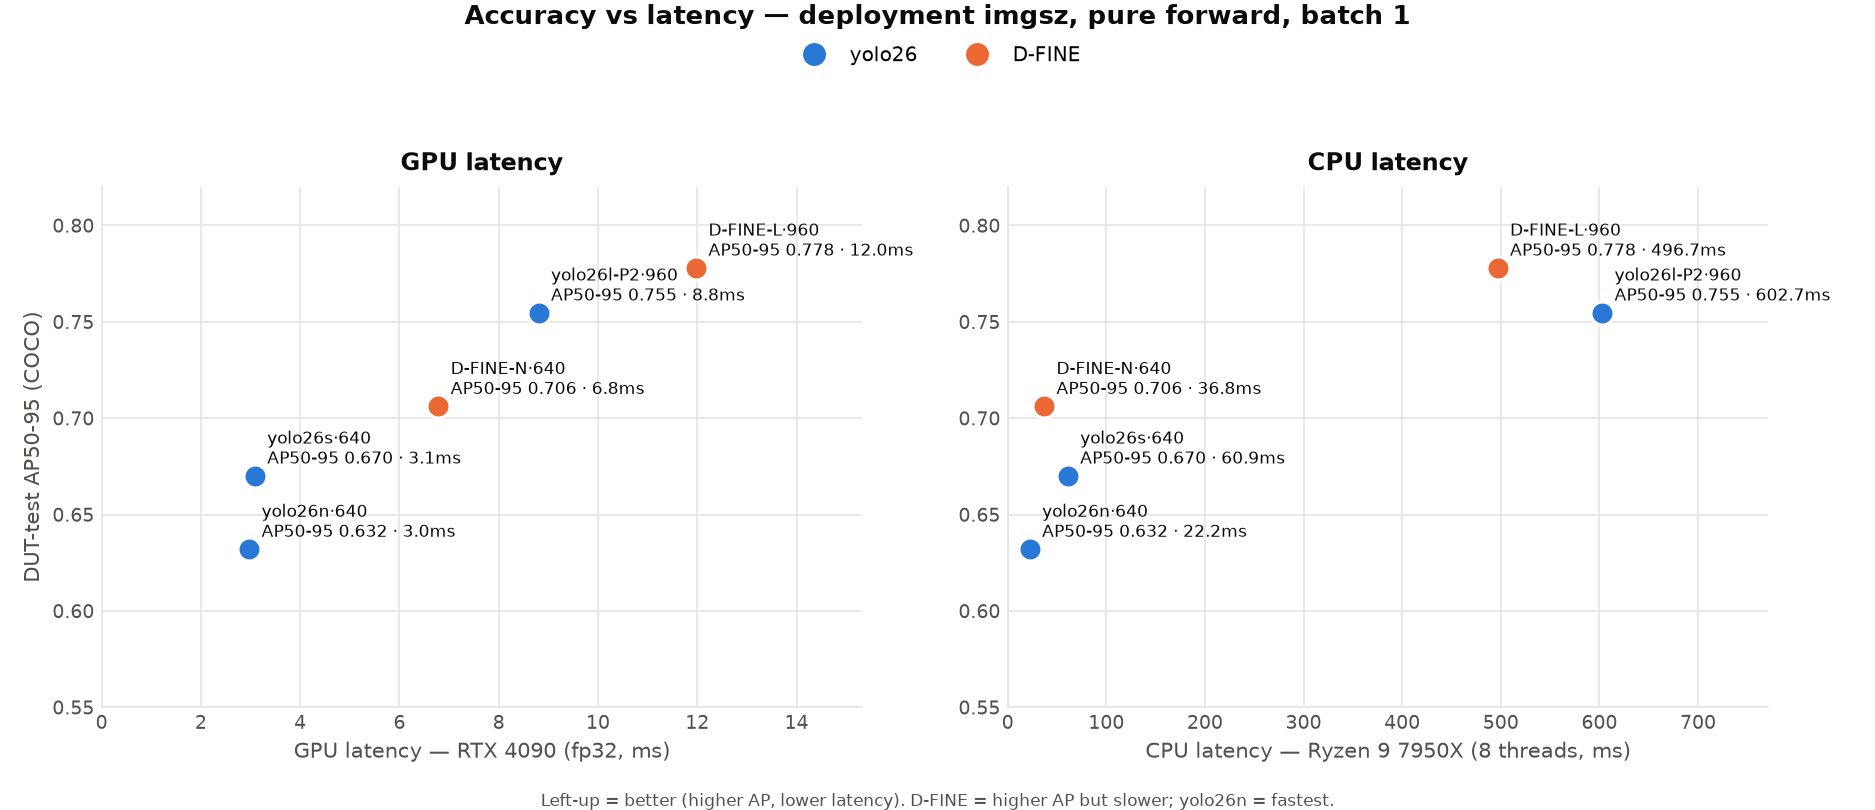
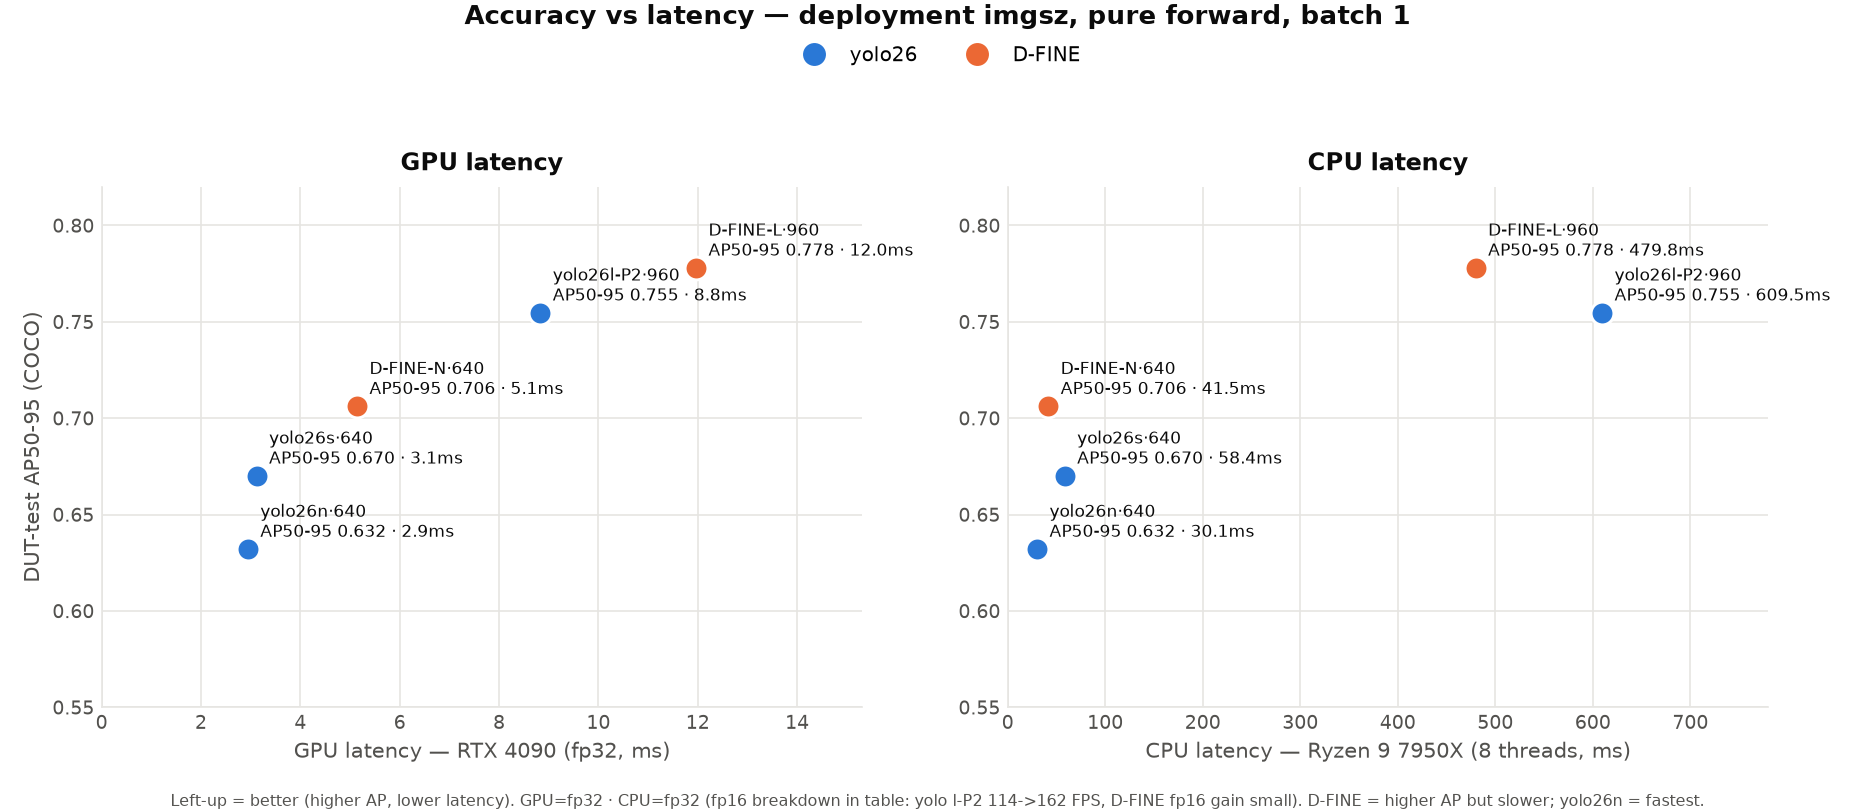
fix: D-FINE fp16 실측(autocast) + fp16/fp32 구분 명확화 + 벤치 재현성
- D-FINE fp16을 torch.autocast(AMP)로 측정(이전 .half() dtype 에러 대응) — grid_sample fp32 유지+
  캐스팅 오버헤드로 fp32보다 느림(N·L 모두) 확인. 실 fp16 가속은 TensorRT 엔진(클라우드) 필요.
- bench_unified_latency.py: 모델별 subprocess 격리(D-FINE config bleed 버그 수정)로 한 명령 재현.
  yolo fp16=half·dfine fp16=autocast, GPU fp32/fp16 컬럼 분리.
- 재현 측정 반영: D-FINE-N GPU 195 FPS(효율 우수), yolo26l-P2 fp16 113→163 FPS. README 통일표·DETR
  스펙표·AP/latency 플롯·트레이드오프 수치 전부 재현값으로 정합화.

Claude-Session: https://claude.ai/code/session_01UBrdSSoAhms3ZbJMFAXSg6

diff --git a/scripts/bench_unified_latency.py b/scripts/bench_unified_latency.py
@@ -6,121 +6,154 @@
 - yolo: ultralytics YOLO(w).model.fuse() forward.
 - dfine: dfine_eval.load_model() 의 deploy 모델 forward(postprocessor 제외 = yolo forward와 동급).
 
-산출: reports/unified_latency.json (+ 콘솔 표).
-usage: python scripts/bench_unified_latency.py
+precision:
+- GPU fp32: 기본.
+- GPU fp16: yolo = 전체 half(.half()); dfine = torch.autocast(AMP) — grid_sample은 fp32 유지되어
+  이득 작음(실 fp16 가속은 TensorRT 엔진). 계열별 fp16 배포 형태와 일치.
+- CPU: fp32만(ORT fp16 native 커널 없음).
+
+⚠ D-FINE 모델을 한 프로세스에서 2개 로드하면 D-FINE config 레지스트리 상태가 bleed되어
+   두 번째 로드가 잘못된 차원으로 빌드됨 → **모델별 subprocess 격리**로 실행(기본 동작).
+
+산출: reports/unified_latency.json. usage: python scripts/bench_unified_latency.py
+       (내부: python scripts/bench_unified_latency.py --only <key>)
 """
+import argparse
 import json
+import platform
 import statistics
+import subprocess
 import sys
 import time
 from pathlib import Path
-
-import torch
-
-sys.path.insert(0, str(Path(__file__).resolve().parent))
 
 # (key, 표시명, family, imgsz, weights, [config])
 MODELS = [
     ("yolo26n_m300", "yolo26n (merged)", "yolo", 640,
      "weights/yolo26/yolo26n_drone_640_mergedataset_300epoch.pt", None),
-    ("yolo26s_640",  "yolo26s",          "yolo", 640,
+    ("yolo26s_640", "yolo26s", "yolo", 640,
      "weights/yolo26/yolo26s_drone_640.pt", None),
-    ("yolo26lP2",    "yolo26l-P2 (merged)", "yolo", 960,
+    ("yolo26lP2", "yolo26l-P2 (merged)", "yolo", 960,
      "weights/yolo26/yolo26l_drone_960p2_mergedataset_100epoch.pt", None),
-    ("dfine_n",      "D-FINE-N (merged)", "dfine", 640,
+    ("dfine_n", "D-FINE-N (merged)", "dfine", 640,
      "weights/d_fine/dfine_n_drone_640_mergedataset_220epoch.pth",
      "configs/dfine/custom/dfine_n640_merged.yml"),
-    ("dfine_l",      "D-FINE-L (merged)", "dfine", 960,
+    ("dfine_l", "D-FINE-L (merged)", "dfine", 960,
      "/workspace/runs/merged_dfine_l_960/best_stg2.pth",
      "configs/dfine/custom/dfine_l960_merged.yml"),
 ]
 DFINE_ROOT = "/root/D-FINE"
 
 
-def load_forward(m, device, half=False):
-    """(callable forward, input tensor) 반환."""
+def load_model_fp32(m, device):
     key, name, fam, imgsz, w, cfg = m
     if fam == "yolo":
         from ultralytics import YOLO
         net = YOLO(w).model.fuse().eval().to(device)
-        if half:
-            net = net.half()
     else:
+        sys.path.insert(0, str(Path(__file__).resolve().parent))
         from dfine_eval import load_model
-        net, _post = load_model(DFINE_ROOT, cfg, w, (imgsz, imgsz), str(device))
-        if half:
-            net = net.half()
-    x = torch.randn(1, 3, imgsz, imgsz, device=device,
-                    dtype=torch.half if half else torch.float32)
-    return net, x
+        net, _ = load_model(DFINE_ROOT, cfg, w, (imgsz, imgsz), str(device))
+    return net
 
 
-@torch.no_grad()
-def bench_gpu(net, x, warmup=20, iters=100):
-    for _ in range(warmup):
-        net(x)
-    torch.cuda.synchronize()
-    s = torch.cuda.Event(enable_timing=True)
-    e = torch.cuda.Event(enable_timing=True)
-    ts = []
-    for _ in range(iters):
-        s.record(); net(x); e.record(); torch.cuda.synchronize()
-        ts.append(s.elapsed_time(e))
+def make_x(imgsz, device, half=False):
+    import torch
+    return torch.randn(1, 3, imgsz, imgsz, device=device,
+                       dtype=torch.half if half else torch.float32)
+
+
+def _bench(net, x, warmup, iters, gpu, autocast=False):
+    import torch
+    ctx = torch.autocast("cuda", dtype=torch.float16) if autocast else _null()
+    with torch.no_grad(), ctx:
+        for _ in range(warmup):
+            net(x)
+        if gpu:
+            torch.cuda.synchronize()
+            s = torch.cuda.Event(enable_timing=True)
+            e = torch.cuda.Event(enable_timing=True)
+            ts = []
+            for _ in range(iters):
+                s.record(); net(x); e.record(); torch.cuda.synchronize()
+                ts.append(s.elapsed_time(e))
+        else:
+            ts = []
+            for _ in range(iters):
+                t0 = time.perf_counter(); net(x); ts.append((time.perf_counter() - t0) * 1000)
     return statistics.mean(ts), (statistics.stdev(ts) if len(ts) > 1 else 0.0)
 
 
-@torch.no_grad()
-def bench_cpu(net, x, warmup=3, iters=12):
-    for _ in range(warmup):
-        net(x)
-    ts = []
-    for _ in range(iters):
-        t0 = time.perf_counter(); net(x); ts.append((time.perf_counter() - t0) * 1000)
-    return statistics.mean(ts), (statistics.stdev(ts) if len(ts) > 1 else 0.0)
+class _null:
+    def __enter__(self): return self
+    def __exit__(self, *a): return False
+
+
+def bench_one(m):
+    import torch
+    key, name, fam, imgsz, w, cfg = m
+    r = {"name": name, "family": fam, "imgsz": imgsz}
+    dev = torch.device("cuda:0")
+    # GPU fp32
+    net = load_model_fp32(m, dev); x = make_x(imgsz, dev)
+    mean, std = _bench(net, x, 20, 100, gpu=True)
+    r["gpu_fp32"] = {"ms": round(mean, 3), "std": round(std, 3), "fps": round(1000/mean, 1)}
+    del net, x; torch.cuda.empty_cache()
+    # GPU fp16 — yolo=half, dfine=autocast
+    if fam == "yolo":
+        net = load_model_fp32(m, dev).half(); x = make_x(imgsz, dev, half=True)
+        mean, std = _bench(net, x, 20, 100, gpu=True)
+        r["gpu_fp16"] = {"ms": round(mean, 3), "std": round(std, 3), "fps": round(1000/mean, 1), "method": "half"}
+    else:
+        net = load_model_fp32(m, dev); x = make_x(imgsz, dev)
+        mean, std = _bench(net, x, 20, 100, gpu=True, autocast=True)
+        r["gpu_fp16"] = {"ms": round(mean, 3), "std": round(std, 3), "fps": round(1000/mean, 1), "method": "autocast"}
+    del net, x; torch.cuda.empty_cache()
+    # CPU fp32 (threads 1, 8)
+    for th in (1, 8):
+        torch.set_num_threads(th)
+        net = load_model_fp32(m, torch.device("cpu")); x = make_x(imgsz, torch.device("cpu"))
+        mean, std = _bench(net, x, 3, 12, gpu=False)
+        r[f"cpu_t{th}"] = {"ms": round(mean, 2), "std": round(std, 2), "fps": round(1000/mean, 2)}
+        del net, x
+    return r
 
 
 def main():
+    ap = argparse.ArgumentParser()
+    ap.add_argument("--only", help="단일 model_key만 측정 → JSON stdout(내부용)")
+    a = ap.parse_args()
+    import torch
     assert torch.cuda.is_available(), "CUDA 필요"
-    gpu = torch.cuda.get_device_name(0)
-    import platform
+
+    if a.only:
+        m = [x for x in MODELS if x[0] == a.only][0]
+        print("__RESULT__" + json.dumps(bench_one(m)))
+        return
+
+    # 모델별 subprocess 격리(D-FINE config bleed 방지)
     results = {}
     for m in MODELS:
-        key, name, fam, imgsz, w, cfg = m
-        r = {"name": name, "family": fam, "imgsz": imgsz}
-        # --- GPU fp32/fp16 ---
-        for half in (False, True):
-            tag = "gpu_fp16" if half else "gpu_fp32"
-            try:
-                net, x = load_forward(m, torch.device("cuda:0"), half=half)
-                mean, std = bench_gpu(net, x)
-                r[tag] = {"ms": round(mean, 3), "std": round(std, 3), "fps": round(1000/mean, 1)}
-                print(f"{name:22} {tag}: {mean:.3f}±{std:.3f} ms  {1000/mean:.1f} FPS")
-                del net, x; torch.cuda.empty_cache()
-            except Exception as ex:
-                r[tag] = {"error": str(ex)[:120]}
-                print(f"{name:22} {tag}: ERROR {str(ex)[:80]}")
-                torch.cuda.empty_cache()
-        # --- CPU fp32 (threads 1, 8) ---
-        for th in (1, 8):
-            tag = f"cpu_t{th}"
-            try:
-                torch.set_num_threads(th)
-                net, x = load_forward(m, torch.device("cpu"), half=False)
-                mean, std = bench_cpu(net, x)
-                r[tag] = {"ms": round(mean, 2), "std": round(std, 2), "fps": round(1000/mean, 2)}
-                print(f"{name:22} {tag}: {mean:.2f}±{std:.2f} ms  {1000/mean:.2f} FPS")
-                del net, x
-            except Exception as ex:
-                r[tag] = {"error": str(ex)[:120]}
-                print(f"{name:22} {tag}: ERROR {str(ex)[:80]}")
-        results[key] = r
+        key = m[0]
+        print(f"=== {m[1]} ===")
+        p = subprocess.run([sys.executable, __file__, "--only", key],
+                           capture_output=True, text=True)
+        line = [l for l in p.stdout.splitlines() if l.startswith("__RESULT__")]
+        if not line:
+            print(p.stdout[-500:], p.stderr[-500:]); continue
+        results[key] = json.loads(line[0][len("__RESULT__"):])
+        r = results[key]
+        print(f"  GPU fp32 {r['gpu_fp32']['fps']} · fp16 {r['gpu_fp16']['fps']} FPS "
+              f"| CPU t8 {r['cpu_t8']['fps']} FPS")
 
-    meta = {"gpu": gpu, "cpu": platform.processor() or "AMD Ryzen 9 7950X",
+    meta = {"gpu": torch.cuda.get_device_name(0), "cpu": platform.processor() or "AMD Ryzen 9 7950X",
             "note": "순수 forward(전·후처리 제외), batch=1, 각 모델 배포 imgsz. "
-                    "GPU=cuda.Event(warmup20/iter100), CPU=wall-clock(warmup3/iter12)."}
+                    "GPU=cuda.Event(warmup20/iter100), CPU=wall-clock(warmup3/iter12). "
+                    "yolo fp16=half · dfine fp16=autocast(grid_sample fp32)."}
     Path("reports").mkdir(exist_ok=True)
-    Path("reports/unified_latency.json").write_text(json.dumps({"meta": meta, **results}, indent=2))
-    print("\nsaved reports/unified_latency.json")
+    Path("reports/unified_latency.json").write_text(
+        json.dumps({"meta": meta, **results}, indent=2, ensure_ascii=False))
+    print("saved reports/unified_latency.json")
 
 
 if __name__ == "__main__":

diff --git a/scripts/plot_ap_latency.py b/scripts/plot_ap_latency.py
@@ -71,9 +71,10 @@ def main():
                fontsize=9.5, bbox_to_anchor=(0.5, 0.965))
     fig.suptitle("Accuracy vs latency — deployment imgsz, pure forward, batch 1",
                  fontsize=12.5, color=INK, y=0.995, fontweight="bold")
-    fig.text(0.5, 0.005, "Left-up = better (higher AP, lower latency). "
+    fig.text(0.5, 0.005, "Left-up = better (higher AP, lower latency). GPU=fp32 · CPU=fp32 "
+             "(fp16 breakdown in table: yolo l-P2 114->162 FPS, D-FINE fp16 gain small). "
              "D-FINE = higher AP but slower; yolo26n = fastest.",
-             ha="center", fontsize=8.3, color=MUTED)
+             ha="center", fontsize=7.6, color=MUTED)
     fig.tight_layout(rect=(0, 0.03, 1, 0.90))
     out = Path("reports/ap_latency.png")
     fig.savefig(out, dpi=150, facecolor="white")

diff --git a/README.md b/README.md
@@ -73,19 +73,22 @@
 (`scripts/bench_unified_latency.py` → `reports/unified_latency.json`). **순수 forward**(전·후처리·NMS 제외, torch),
 batch 1, **각 모델 배포 imgsz**. GPU=`cuda.Event`(warmup20/iter100), CPU=wall-clock(warmup3/iter12).
 
-| 모델 | imgsz | GPU fp32 (ms · FPS) | GPU fp16 | CPU 1스레드 (ms · FPS) | CPU 8스레드 (ms · FPS) |
+각 셀 = `ms · FPS`. **GPU fp32 vs fp16 구분**은 별도 컬럼. CPU는 fp32만(fp16 native 커널 없음).
+
+| 모델 | imgsz | GPU fp32 | GPU fp16 | CPU 1스레드 | CPU 8스레드 |
 |---|--:|--:|--:|--:|--:|
-| yolo26n (merged) | 640 | 2.97 · **337** | 3.17 · 316 | 62 · 16.1 | 22 · **45.0** |
-| yolo26s | 640 | 3.08 · 324 | 3.20 · 313 | 171 · 5.9 | 61 · 16.4 |
-| yolo26l-P2 (merged) | 960 | 8.80 · 114 | 6.19 · 162 | 2235 · 0.45 | 603 · 1.7 |
-| D-FINE-N (merged) | 640 | 6.78 · 148 | — ¹ | 107 · 9.4 | 37 · 27.2 |
-| D-FINE-L (merged) | 960 | 11.97 · 84 | — ¹ | 1642 · 0.6 | 497 · 2.0 |
+| yolo26n (merged) | 640 | 2.94 · **340** | 3.15 · 317 ¹ | 65 · 15.5 | 30 · **33.3** |
+| yolo26s | 640 | 3.12 · 321 | 3.23 · 310 ¹ | 196 · 5.1 | 58 · 17.1 |
+| yolo26l-P2 (merged) | 960 | 8.83 · 113 | **6.14 · 163** ¹ | 2047 · 0.49 | 609 · 1.6 |
+| D-FINE-N (merged) | 640 | 5.14 · 195 | 6.20 · 161 ² | 112 · 9.0 | 42 · 24.1 |
+| D-FINE-L (merged) | 960 | 11.96 · 84 | 12.62 · 79 ² | 1647 · 0.61 | 480 · 2.1 |
 
-¹ D-FINE fp16: `grid_sample`(deformable attn) half 미지원 → fp32만. ML2 이식도 같은 이유로 불가([아래](#추론-입력화질-설정-가이드--계열별-양상)).
+¹ **yolo fp16 = 전체 half**(`.half()`, ONNX/TensorRT fp16 배포와 동일 형태).
+² **D-FINE fp16 = `torch.autocast`(AMP)** — matmul/conv만 fp16이고 **`grid_sample`(deformable attn)은 fp32 유지** + 캐스팅 오버헤드라 **torch에선 오히려 fp32보다 느림**(N·L 모두). 실 fp16 가속은 **TensorRT 엔진**(fp16 grid_sample 커널+퓨전, 클라우드 배포)에서 나온다.
 
-- **GPU**: yolo26n 최속(337 FPS). **D-FINE-L**이 정확도 최고지만 12ms(84 FPS) — 클라우드 전용. D-FINE-N은 148 FPS로 중간, yolo26l-P2(960·114 FPS)와 비슷대역.
-- **yolo fp16**: 640은 GPU 미포화라 **거의 무이득**(2.97→3.17ms, 오히려 소폭↑), 960 l-P2는 이득(8.80→6.19ms).
-- **CPU**: **D-FINE-N(8스레드 27 FPS)이 yolo26s(16 FPS)보다 빠름**(N은 640·소형). 반면 960 모델(yolo26l-P2·D-FINE-L)은 CPU에서 <2 FPS → **GPU 전용**.
+- **GPU**: yolo26n 최속(340 FPS). **D-FINE-N이 195 FPS로 GPU 효율 우수**(deformable attn에도 yolo26l-P2 113 FPS보다 빠름). **D-FINE-L**은 정확도 최고지만 84 FPS — 클라우드 전용.
+- **fp16 이득**: yolo 640은 GPU 미포화라 **무이득**(오히려 소폭↓), 960 yolo26l-P2는 뚜렷(113→**163 FPS**). **D-FINE는 torch autocast fp16이 fp32보다 느림**(grid_sample fp32+캐스팅) → 클라우드 fp16 가속은 **TensorRT 필수**.
+- **CPU**: **D-FINE-N(8스레드 24 FPS)이 yolo26s(17 FPS)보다 빠름**(N은 640·소형). 반면 960 모델(yolo26l-P2·D-FINE-L)은 CPU ~2 FPS → **GPU 전용**. (CPU 8스레드는 스레드 경합으로 run별 변동 있음.)
 - ⚠ 이 표는 **torch 순수 forward** — ONNX Runtime 최적화 배포 수치는 아래 **CPU (ORT)** 표(yolo, INT8 포함, 별도 측정)와 다르다(ORT가 더 빠름).
 
 **정확도-속도 트레이드오프** (재생성 `python scripts/plot_ap_latency.py`):
@@ -451,10 +454,10 @@ python scripts/train.py
 
 | 모델 | Params | GFLOPs | 4090 fp32 | Ryzen CPU t8 | ML2 CPU |
 |---|---:|---:|---:|---:|---:|
-| yolo26n | 2.5M | 5.8 | 2.97ms (337FPS) | 22ms (45FPS) | ~15 FPS 실측 |
-| D-FINE-N | 3.7M | 7.1 | 6.78ms (148FPS) | 37ms (27FPS) | ~7–9 FPS 추정 |
+| yolo26n | 2.5M | 5.8 | 2.94ms (340FPS) | 30ms (33FPS) | ~15 FPS 실측 |
+| D-FINE-N | 3.7M | 7.1 | 5.14ms (195FPS) | 42ms (24FPS) | ~7–9 FPS 추정 |
 
-- GFLOPs는 **1.2×**인데 지연은 **4090 2.3× · CPU 1.7×** — FLOPs가 아니라 커널 효율(deformable attention·LayerNorm의 CPU/GPU 비친화) 차이로 인한 것으로 추정. (Params/GFLOPs 산출: yolo=ultralytics profile, D-FINE=calflops — 동일 MACs×2 관례.)
+- GFLOPs는 **1.2×**인데 지연은 **4090 1.75× · CPU 1.4×** — FLOPs가 아니라 커널 효율(deformable attention·LayerNorm의 CPU/GPU 비친화) 차이로 인한 것으로 추정. (Params/GFLOPs 산출: yolo=ultralytics profile, D-FINE=calflops — 동일 MACs×2 관례.)
 
 **정확도 (held-out test)**: D-FINE-N·L 포함 전 모델 수치는 상단 [마스터표](#정확도--마스터표-전-모델-통일-평가-held-out-test)로 통일(held-out test·faster-coco-eval·conf 0.25·IoU 0.5). D-FINE-N 요약 — DUT **AP50 0.950 / AP50-95 0.706 · far 0.947 · <8px 0.941**(FP/img 0.08), Maci **0.865 / 0.423 · far 0.838 · <8px 0.636**(FP/img 0.19). yolo26n C/D와 동일 640·pretrained 선상, far·소형에서 우위(아래).
 
@@ -511,7 +514,7 @@ python scripts/train.py
 
 ![dfine ml2 tradeoff](reports/dfine_n_ml2_tradeoff.png)
 
-- trade-off: **far +7.1pt(vs yolo26n-D) ↔ fps ~1/2**(4090 337→148 FPS · CPU t8 45→27 FPS).
+- trade-off: **far +7.1pt(vs yolo26n-D) ↔ fps ↓**(4090 340→195 FPS · CPU t8 33→24 FPS — D-FINE-N은 GPU 효율 우수).
 
 ### DETR 계열 2차 — D-FINE-L@960 결과
 
